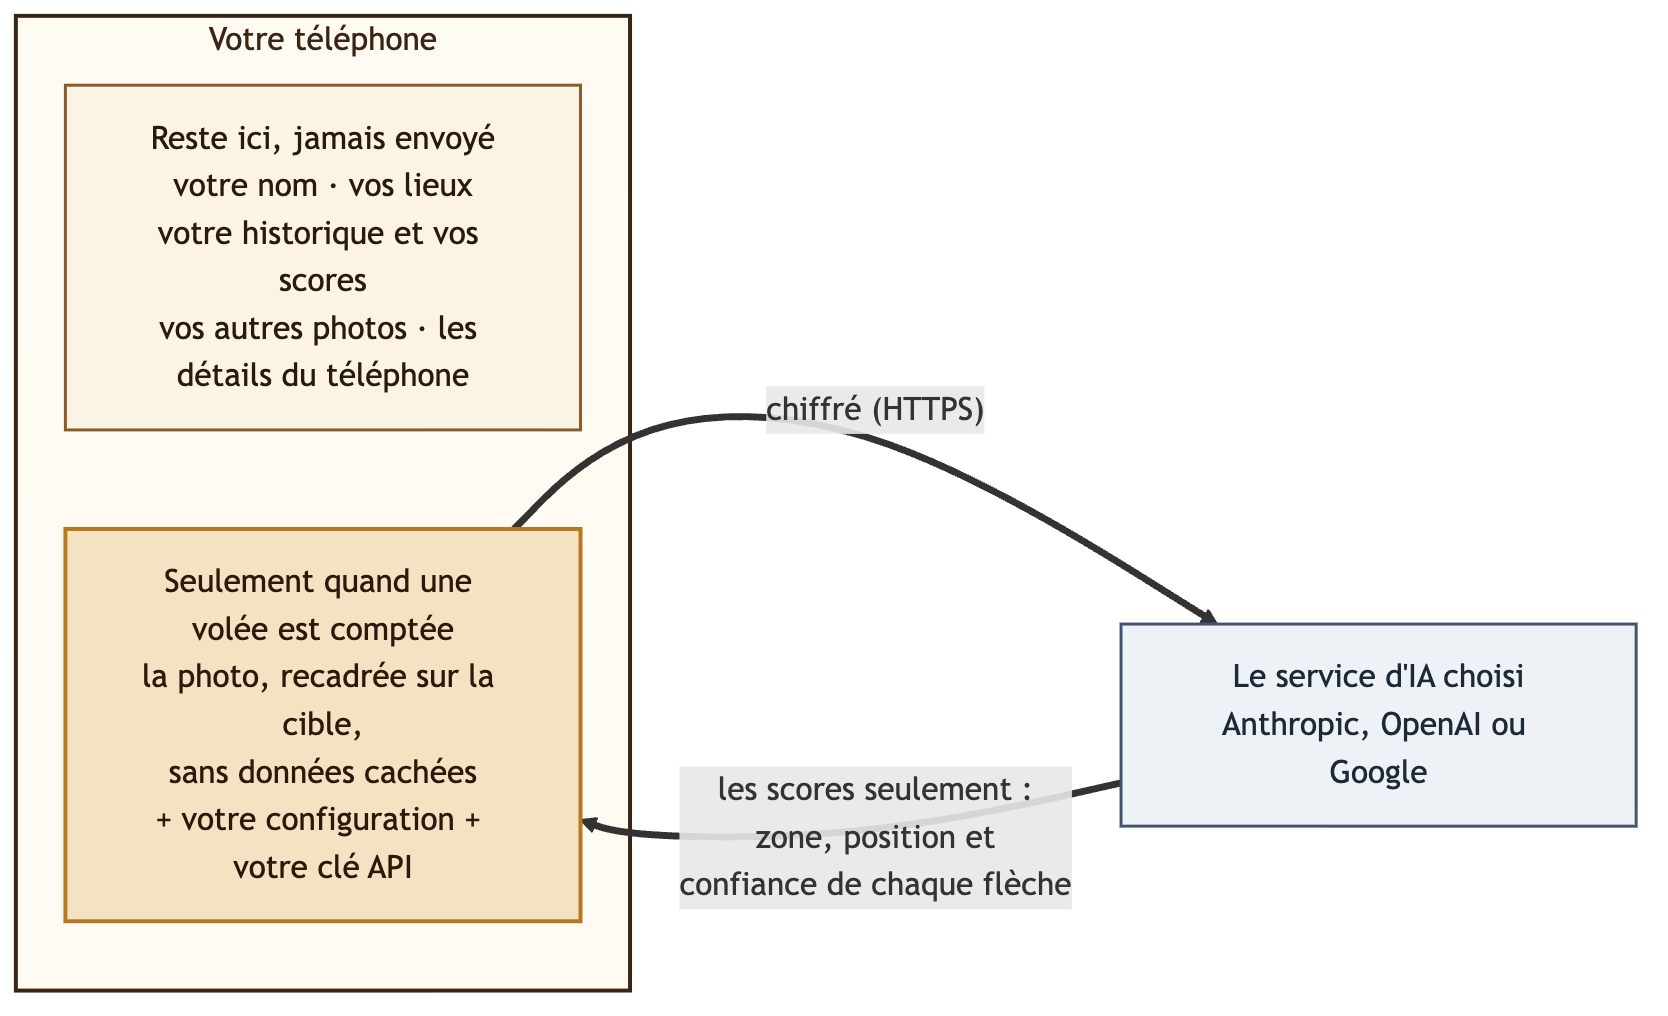
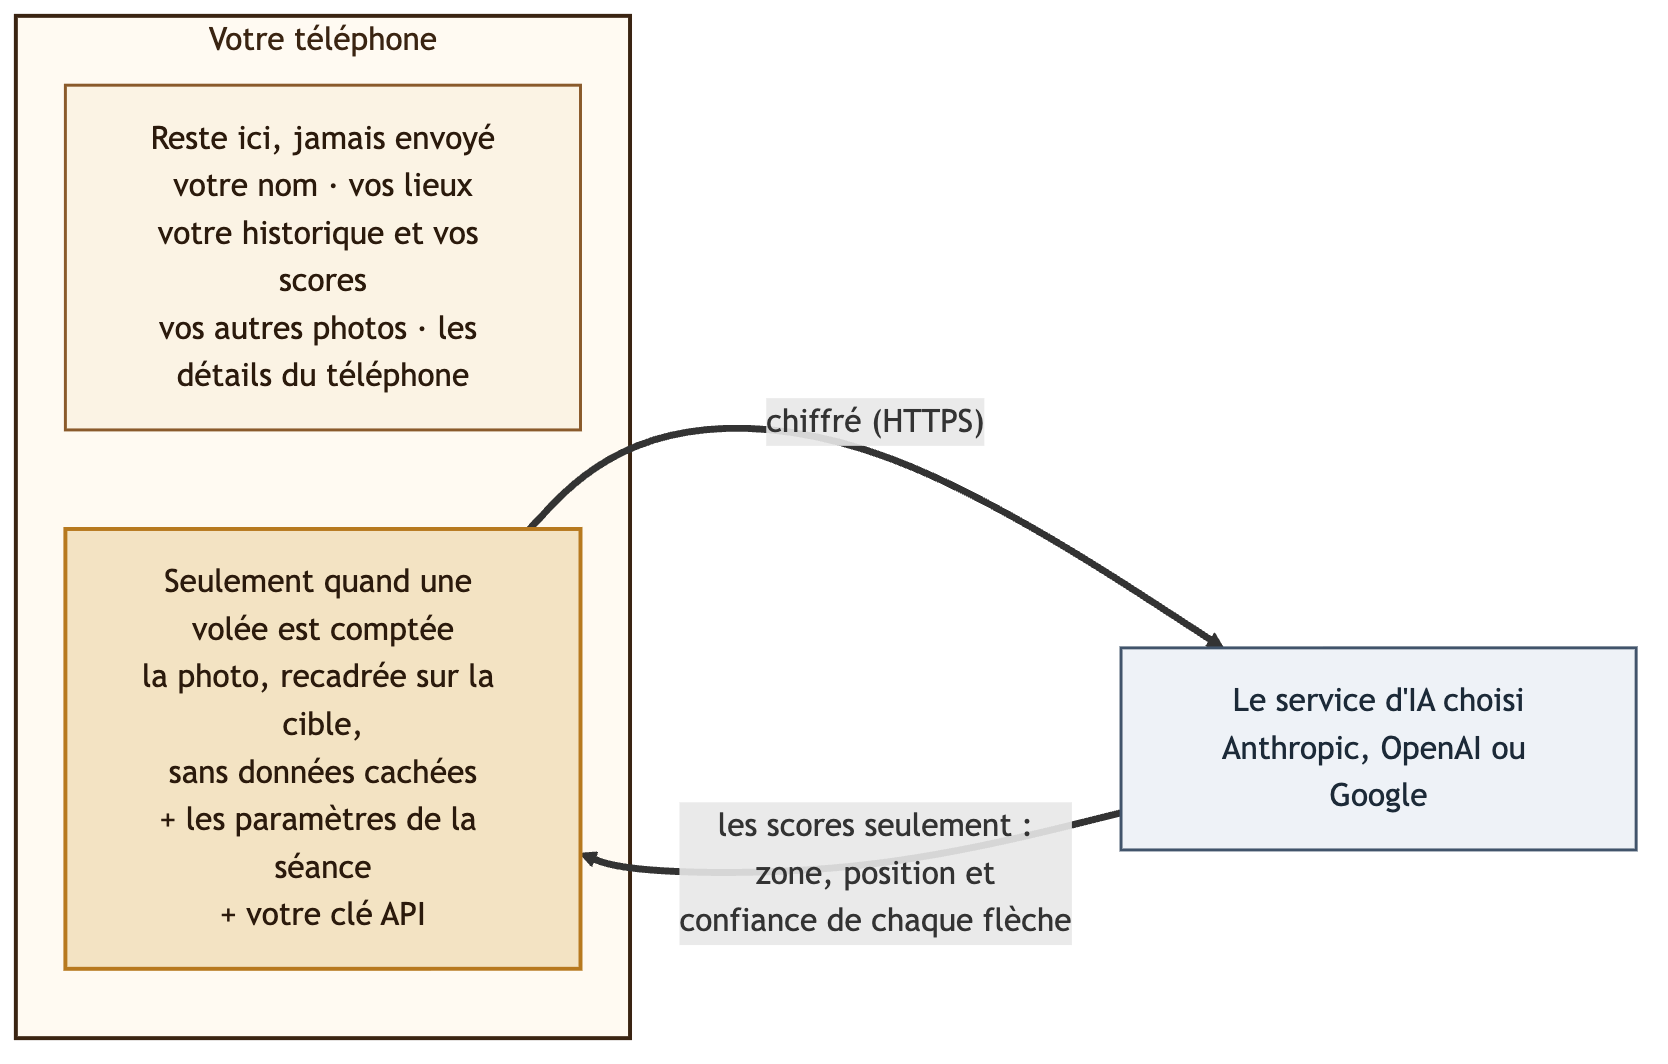
Site: remove copy-and-paste section and Next section, reliability wording, session settings (FR)

diff --git a/ullr/docs/how-it-works.fr.md b/ullr/docs/how-it-works.fr.md
@@ -22,7 +22,7 @@ Ullr envoie une seule requête au service d'IA que vous avez choisi. Elle contie
 |--------|----------------|
 | **La photo** | La cible, recadrée. |
 | **Comment lire une cible** | La même pour chaque volée. Trouver les flèches plantées dans le blason, pas les anciens trous ni les flèches des autres archers. Donner le point où chaque tube entre dans le blason, pas l'encoche. Appliquer la règle de la ligne : un tube qui touche une ligne prend la zone la plus haute. Signaler une flèche proche d'une ligne, et dire à quel point elle est sûre. |
-| **Votre configuration** | Tirée de la séance : le blason et ses zones, le nombre de blasons et de spots (2 trispots = 6 spots), le nombre de flèches à chercher, votre règle de comptage avec la valeur de chaque zone, et la description de vos flèches. |
+| **Les paramètres de la séance** | Tirés de la séance : le blason et ses zones, le nombre de blasons et de spots (2 trispots = 6 spots), le nombre de flèches à chercher, votre règle de comptage avec la valeur de chaque zone, et la description de vos flèches. |
 | **Le format de réponse** | Une liste de champs fixe, pour que la réponse soit toujours lisible. |
 
 ## 3. L'IA répond
@@ -77,7 +77,7 @@ Vous corrigez une flèche entourée d'une touche, ajoutez une flèche oubliée o
 
 | Service | Comment | Remarques |
 |---------|---------|-----------|
-| **Claude d'Anthropic** | Votre propre clé API | Recommandé : les consignes ont été conçues et testées avec Claude. |
+| **Claude d'Anthropic** | Votre propre clé API | Recommandé. |
 | **OpenAI** | Votre propre clé API | Mêmes consignes. Pas encore testé sur de vraies photos de cible. |
 | **Google Gemini** | Votre propre clé API | Mêmes consignes. Pas encore testé sur de vraies photos de cible. |
 | **Application Claude** | Copier-coller, sans clé | Utilise votre propre compte ou abonnement Claude. |
@@ -87,6 +87,6 @@ Vous corrigez une flèche entourée d'une touche, ajoutez une flèche oubliée o
 
 Il y a souvent peu de réseau sur un terrain de tir. Ullr enregistre d'abord chaque photo, et le comptage attend le réseau. Il démarre tout seul dès que le téléphone est de nouveau en ligne. Si vous voulez le score tout de suite, saisissez-le à la main. Fermer l'application ne fait rien perdre.
 
-## Est-ce fiable ?
+## Fiabilité
 
-Ce n'est pas encore mesuré sur de vraies photos. C'est la prochaine étape : une centaine de photos de vraies volées, comptées à la main, passées dans chaque IA pour mesurer combien d'erreurs sont entourées. L'objectif : au moins 95 % des erreurs entourées pour que vous les vérifiiez. Voir la [feuille de route](roadmap.md).
+Il n'y a aucune garantie de fiabilité. La justesse du comptage dépend beaucoup de la qualité de la photo, de l'angle de prise de vue et du modèle d'IA choisi. En tout temps, l'IA peut se tromper. C'est pourquoi les flèches incertaines sont entourées, et c'est pourquoi c'est vous qui validez chaque volée : vérifiez toujours vos flèches dans la cible avant de les retirer.

diff --git a/ullr/docs/security.fr.md b/ullr/docs/security.fr.md
@@ -2,7 +2,7 @@
 
 Ullr a été conçu pour qu'il y ait très peu de choses à protéger hors de votre téléphone, et que ce qui en sort soit réduit au minimum. Voici ce qui vous protège, vous et vos données, en mots simples.
 
-![Ce qui sort de votre téléphone : tout reste sur le téléphone, sauf, seulement quand une volée est comptée, la photo recadrée, votre configuration et votre clé, envoyées chiffrées au service d'IA choisi, qui ne renvoie que les scores.](images/diagrams/data-sent.fr.png){ width="640" }
+![Ce qui sort de votre téléphone : tout reste sur le téléphone, sauf, seulement quand une volée est comptée, la photo recadrée, les paramètres de la séance et votre clé, envoyées chiffrées au service d'IA choisi, qui ne renvoie que les scores.](images/diagrams/data-sent.fr.png){ width="640" }
 
 ## Ce qui vous protège
 
@@ -64,7 +64,7 @@ Ullr a été conçu pour qu'il y ait très peu de choses à protéger hors de vo
 Votre historique est protégé par l'écran de verrouillage du téléphone, comme vos autres applications. Par prudence, supprimez votre clé API sur le site du service d'IA : elle cesse de fonctionner aussitôt. Une limite de dépenses chez le service garantit que personne ne pourra jamais dépenser plus.
 
 **Le service d'IA voit-il mon historique ?**
-Non. Il reçoit seulement la photo de la volée comptée, votre configuration pour cette volée (blason, nombre de flèches, règle de comptage, description des flèches) et votre clé. Voir [Confidentialité](privacy.md) pour ce que chaque service en fait.
+Non. Il reçoit seulement la photo de la volée comptée, les paramètres de la séance (blason, nombre de flèches, règle de comptage, description des flèches) et votre clé. Voir [Confidentialité](privacy.md) pour ce que chaque service en fait.
 
 **Ullr me piste-t-il ou affiche-t-il des publicités ?**
 Non. Pas de statistiques d'utilisation, pas de publicité, pas de pistage. L'application ne demande ni votre position, ni vos contacts, ni le micro, ni vos fichiers.

diff --git a/ullr/docs/guide.fr.md b/ullr/docs/guide.fr.md
@@ -93,8 +93,6 @@ La clé est chiffrée sur le téléphone. Elle n'est plus jamais affichée, et *
     - **Distance**, **blason**, **blasons sur la butte** (pour les trispots : combien il y en a sur la butte, par exemple 2 blasons = 6 spots) et **flèches par volée** (n'importe quel nombre, souvent 3 ou 6).
     - **Comptage** : la règle, proposée d'après les réglages et le type d'arc. Voir [Règles de comptage](#regles-de-comptage).
 
-    Tout ce que vous choisissez ici est expliqué à l'IA avec chaque photo : le blason et ses zones, le nombre de spots, le nombre de flèches à chercher, et ce que vaut chaque zone selon votre règle.
-
 3. Tirez votre volée, allez à la cible et touchez **Prendre la photo**. Placez-vous face à la cible et cadrez le blason dans le cercle. Vous pouvez aussi choisir une photo dans votre galerie.
 4. La volée apparaît dans la feuille de marque avec son état :
 
@@ -106,16 +104,6 @@ La clé est chiffrée sur le téléphone. Elle n'est plus jamais affichée, et *
 | non comptée | Un problème est survenu. Touchez pour réessayer, saisir à la main ou utiliser l'application Claude. |
 
 Pas besoin d'attendre : tirez la volée suivante pendant que la précédente est comptée.
-
-### Avec l'application Claude (copier-coller)
-
-Sur l'écran de vérification de la volée :
-
-1. Touchez **Partager avec Claude**. La photo part vers l'application Claude, et le texte est copié.
-2. Dans l'application Claude, collez le texte et envoyez-le.
-3. Copiez **toute** la réponse de Claude, revenez dans Ullr, collez-la et touchez **Utiliser cette réponse**.
-
-Si la réponse est illisible, l'application dit pourquoi. Demandez à Claude de répondre à nouveau avec le même texte.
 
 ## Vérifier une volée
 

diff --git a/ullr/docs/privacy.fr.md b/ullr/docs/privacy.fr.md
@@ -15,12 +15,12 @@ C'est tout : vos arcs et vos lieux, vos séances, chaque volée avec sa photo, e
 
 ## Ce qui est envoyé, et quand
 
-![Ce qui sort de votre téléphone : tout reste sur le téléphone, sauf, seulement quand une volée est comptée, la photo recadrée, votre configuration et votre clé, envoyées chiffrées au service d'IA choisi, qui ne renvoie que les scores.](images/diagrams/data-sent.fr.png){ width="560" }
+![Ce qui sort de votre téléphone : tout reste sur le téléphone, sauf, seulement quand une volée est comptée, la photo recadrée, les paramètres de la séance et votre clé, envoyées chiffrées au service d'IA choisi, qui ne renvoie que les scores.](images/diagrams/data-sent.fr.png){ width="560" }
 
 Seulement quand une volée est comptée par un service d'IA, par une connexion chiffrée, à ce service seulement :
 
 - **la photo de la volée**, sans données cachées (ni position, ni modèle de téléphone) et, par défaut, recadrée sur la zone de la cible ;
-- **votre configuration** : blason, nombre de blasons, nombre de flèches et règle de comptage, et la description de vos flèches ;
+- **les paramètres de la séance** : blason, nombre de blasons, nombre de flèches et règle de comptage, et la description de vos flèches ;
 - **votre clé API**, qui identifie votre compte chez ce service.
 
 **Jamais envoyés :** votre nom, vos lieux, votre historique, vos scores, ni les caractéristiques de votre téléphone. Les informations techniques que les applications envoient d'habitude sur le téléphone (version d'Android, processeur) sont remplacées par « unknown » (inconnu).

diff --git a/ullr/docs/how-it-works.md b/ullr/docs/how-it-works.md
@@ -77,7 +77,7 @@ You fix any circled arrow with one tap, add a missed arrow or remove another arc
 
 | Service | How | Notes |
 |---------|-----|-------|
-| **Anthropic Claude** | Your own API key | Recommended: the instructions were designed and tested with Claude. |
+| **Anthropic Claude** | Your own API key | Recommended. |
 | **OpenAI** | Your own API key | Same instructions. Not yet tested on real target photos. |
 | **Google Gemini** | Your own API key | Same instructions. Not yet tested on real target photos. |
 | **Claude app** | Copy and paste, no key | Uses your own Claude account or subscription. |
@@ -87,6 +87,6 @@ You fix any circled arrow with one tap, add a missed arrow or remove another arc
 
 There's often no signal at a range. Ullr saves every photo first, and scoring waits for the network. It starts by itself when the phone is back online. If you need the score now, enter it by hand. Closing the app loses nothing.
 
-## How accurate is it?
+## Reliability
 
-Not measured on real photos yet. That's the next step: about a hundred photos of real ends, scored by hand, run through each AI to measure how many wrong scores get circled. The target is that at least 95 % of wrong scores are circled for you to check. See the [roadmap](roadmap.md).
+There is no guarantee of reliability. How accurate the scoring is depends a lot on the quality of the photo, the angle it was taken from, and the AI model you chose. At any time, the AI can make mistakes. That's why uncertain arrows are circled, and why you confirm every end: always check your arrows in the target before you pull them.

diff --git a/ullr/docs/guide.md b/ullr/docs/guide.md
@@ -93,8 +93,6 @@ The key is stored encrypted on the phone. It is never shown again, and **Remove 
     - **Distance**, **target face**, **paper faces** (for 3-spot faces: how many are on the boss, for example 2 faces = 6 spots), and **arrows per end** (any number, often 3 or 6).
     - **Scoring rule**: set from Settings and the bow type. See [Scoring rules](#scoring-rules).
 
-    Everything you choose here is explained to the AI with each photo: the face and its rings, how many spots, how many arrows to look for, and what each ring is worth under your rule.
-
 3. Shoot your end, walk to the target and tap **Take photo** (*Prendre la photo*). Stand in front of the target and fit the face in the circle on screen. You can also pick a photo from your gallery.
 4. The end appears in the scoresheet with its status:
 
@@ -106,16 +104,6 @@ The key is stored encrypted on the phone. It is never shown again, and **Remove 
 | not scored (*non comptée*) | Something went wrong. Tap to retry, score by hand, or use the Claude app. |
 
 You don't have to wait: shoot the next end while the previous one is being scored.
-
-### With the Claude app (copy and paste)
-
-On the end's review screen:
-
-1. Tap **Share to Claude** (*Partager avec Claude*). The photo goes to the Claude app, and the prompt is copied.
-2. In the Claude app, paste the prompt and send it.
-3. Copy Claude's **whole** answer, come back to Ullr, paste it, and tap **Use this answer** (*Utiliser cette réponse*).
-
-If the answer can't be read, the app says why. Ask Claude to answer again with the same prompt.
 
 ## Review an end
 

diff --git a/ullr/docs/roadmap.fr.md b/ullr/docs/roadmap.fr.md
@@ -15,13 +15,7 @@ Ullr est un projet personnel, construit au grand jour. Voici où il en est.
 - [x] La confidentialité dès la conception : photos recadrées sur la cible, données cachées retirées, rien sur vous ni sur votre téléphone n'est envoyé
 - [x] Ullr Demo, avec six mois de séances d'exemple pour essayer chaque écran
 
-## Ensuite
-
-- [ ] **Mesurer la fiabilité sur de vraies photos :** une centaine de vraies volées, comptées à la main, passées dans chaque service d'IA. Objectif : au moins 95 % des erreurs entourées pour que vous les vérifiiez.
-- [ ] Premiers vrais comptages avec des clés OpenAI et Gemini
-- [ ] Une version finale pour l'usage de tous les jours
-
-## Puis
+## À venir
 
 - [ ] **Vos données, à votre façon :** export (tout, les données seules ou les photos seules) vers le dossier de votre choix, libérer de la place en retirant les photos exportées, et partager un résumé de séance par courriel ou message
 - [ ] Statistiques : moyenne dans le temps, répartition des scores, où se groupent vos flèches, fatigue au fil d'une séance
@@ -33,7 +27,6 @@ Ullr est un projet personnel, construit au grand jour. Voici où il en est.
 
 ## Idées
 
-- [ ] Le copier-coller avec les applications ChatGPT et Gemini aussi
 - [ ] Restaurer un export sur un nouveau téléphone
 - [ ] Le comptage sans votre propre clé API, pour les archers qui n'en veulent pas
 - [ ] L'arc nu comme type d'arc

diff --git a/ullr/docs/roadmap.md b/ullr/docs/roadmap.md
@@ -15,13 +15,7 @@ Ullr is a personal project, built in the open. Here's where it stands.
 - [x] Privacy by design: photos trimmed to the target, hidden data removed, nothing about you or your phone sent
 - [x] Ullr Demo, with six months of sample sessions to try every screen
 
-## Next
-
-- [ ] **Measure accuracy on real photos:** about a hundred real ends, scored by hand, run through each AI service. Goal: at least 95 % of wrong scores circled for you to check.
-- [ ] First real scoring with OpenAI and Gemini keys
-- [ ] Release build for everyday use
-
-## Then
+## Coming
 
 - [ ] **Your data, your way:** export (everything, data only, or photos only) to a folder you choose, free up space by removing exported photos, and share a session summary by email or message
 - [ ] Statistics: average over time, score distribution, where your arrows group, fatigue over a session
@@ -33,7 +27,6 @@ Ullr is a personal project, built in the open. Here's where it stands.
 
 ## Ideas
 
-- [ ] Copy and paste through the ChatGPT and Gemini apps too
 - [ ] Restore an export on a new phone
 - [ ] Scoring without your own API key, for archers who don't want one
 - [ ] Barebow as a bow type
